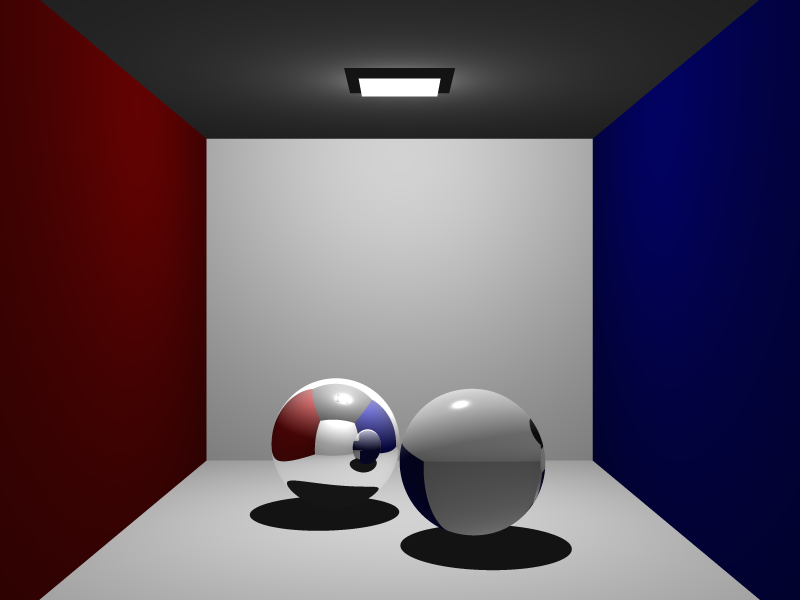
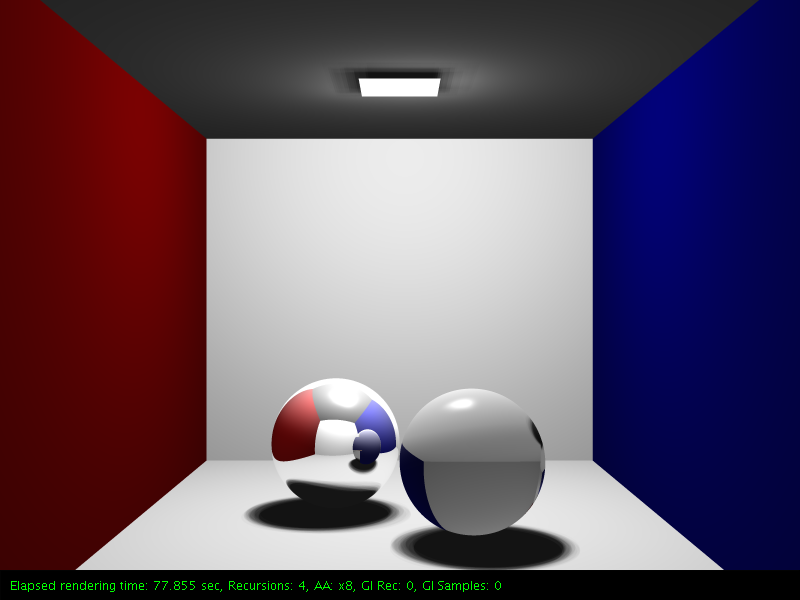
Very slow with SS

diff --git a/VCG_Raytracer/src/raytracer/Raytracer.java b/VCG_Raytracer/src/raytracer/Raytracer.java
@@ -73,7 +73,6 @@ public class Raytracer {
     private int mBlockSize;
     private int mNumberOfThreads;
 
-    private int mBlurryLevel;
     private boolean mUseGI;
     private float mPDFFactor;
 
@@ -83,11 +82,10 @@ public class Raytracer {
     private boolean mDebug;
     private long tStart;
 
-    public Raytracer(Scene scene, Window renderWindow, int recursions, boolean useGi, int giLevel, int giSamples, int blurryLevel, RgbColor backColor, RgbColor ambientLight, int antiAliasingSamples, int blockSize, int numberOfThreads, boolean debugOn){
+    public Raytracer(Scene scene, Window renderWindow, int recursions, boolean useGi, int giLevel, int giSamples, RgbColor backColor, RgbColor ambientLight, int antiAliasingSamples, int blockSize, int numberOfThreads, boolean debugOn){
         Log.print(this, "Init");
         mMaxRecursions = recursions;
         mUseGI = useGi;
-        mBlurryLevel = blurryLevel;
 
         if(mUseGI) {
             mGiLevel = giLevel;

diff --git a/VCG_Raytracer/src/Main.java b/VCG_Raytracer/src/Main.java
@@ -62,8 +62,7 @@ public class Main {
 
     static int RECURSIONS = 4;
     static int ANTI_ALIASING = Raytracer.ANTI_ALIASING_MEDIUM;
-    static boolean USE_SOFT_SHADOWS = false;
-    static int BLURRY_LEVEL = 60;
+    static boolean USE_SOFT_SHADOWS = true;
 
     /** LIGHT **/
 
@@ -94,7 +93,7 @@ public class Main {
     static boolean SHOW_AREA_LIGHT_SAMPLES = false;
     static boolean SHOW_PRIMARY_RAYS = false;
     static boolean SHOW_SECONDARY_RAYS = false;
-    static boolean SHOW_PARAM_LABEL = false;
+    static boolean SHOW_PARAM_LABEL = true;
 
     static int BLOCK_SIZE = Raytracer.LARGE_BLOCK;
     static int NUMBER_OF_THREADS = Raytracer.MULTI_THREADING_INSANE;
@@ -236,7 +235,6 @@ public class Main {
                 USE_GI,
                 GI_LEVEL,
                 GI_SAMPLES,
-                BLURRY_LEVEL,
                 BACKGROUND_COLOR,
                 AMBIENT_LIGHT,
                 ANTI_ALIASING,
